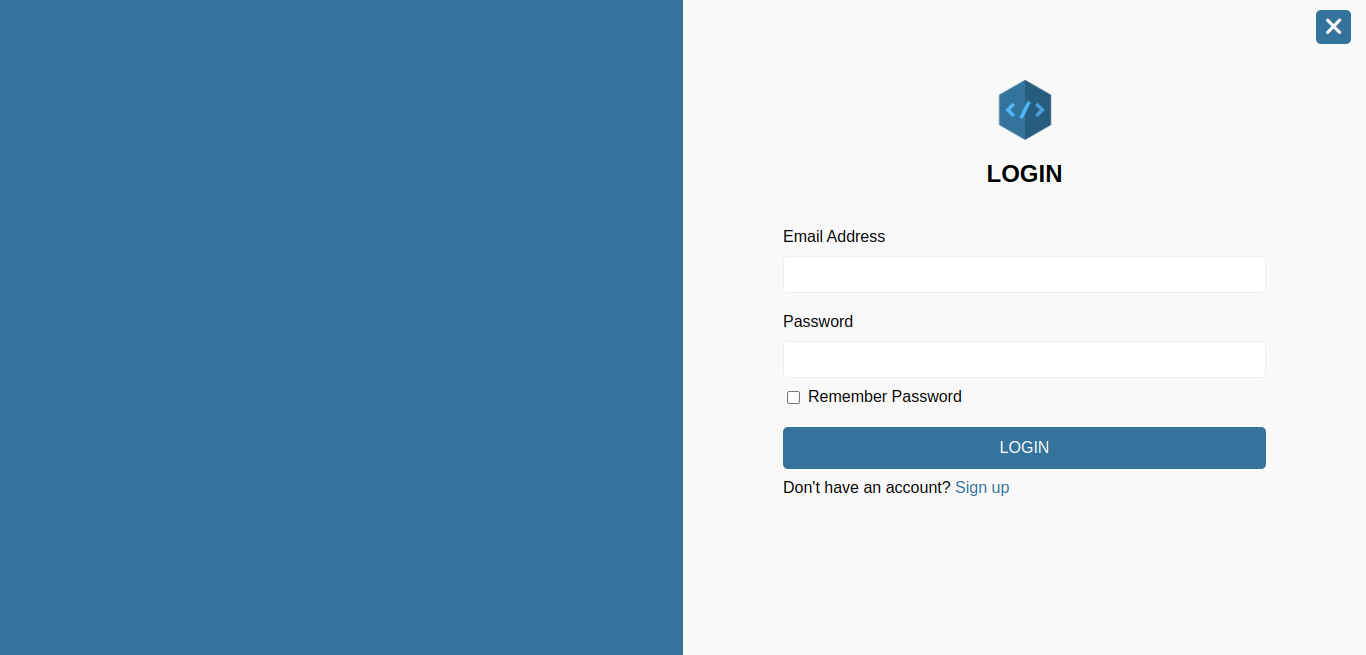
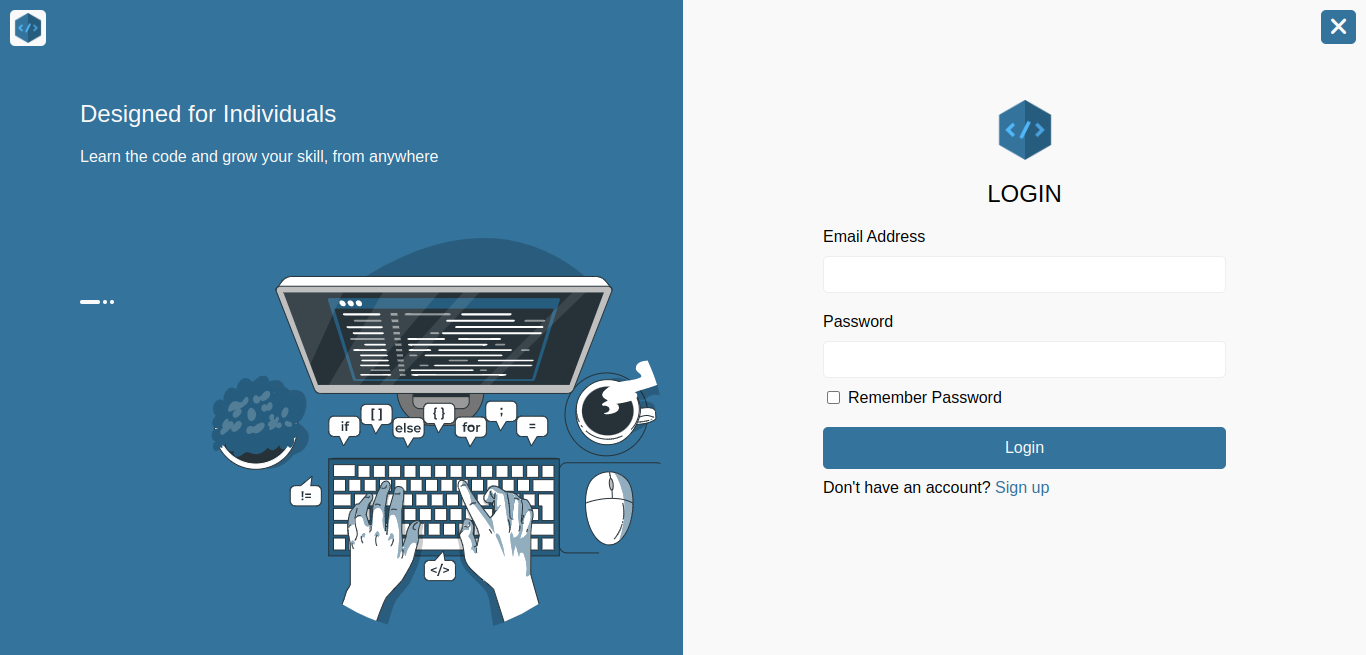
add contents in section left

diff --git a/public/css/login/login.style.css b/public/css/login/login.style.css
@@ -14,18 +14,90 @@
     align-self: stretch;
 }
 
+/* SECTION LEFT */
+
 #section__left {
+    position: relative;
+    color: var(--light);
     background-color: var(--secondary);
+    background-image: url(/assets/img/code-typing-animate.svg);
+    background-repeat: no-repeat;
+    background-size: 500px;
+    background-position: 100% 120%;
 }
 
+#section__left .content__logo {
+    position: absolute;
+    top: 10px;
+    left: 10px;
+    display: flex;
+    justify-content: center;
+    align-items: center;
+    padding: 3px;
+    background-color: var(--light);
+    border-radius: 5px;
+}
+
+#section__left h1, #section__left p {
+    font-weight: normal;
+    margin: 0;
+    padding: 0;
+}
+
+#section__left .content__text {
+    position: relative;
+    margin-top: 100px;
+    margin-left: 80px;
+    width: 360px;
+    display: flex;
+    flex-direction: column;
+    align-items: flex-start;
+    gap: 20px;
+}
+
+#section__left .content__pagination {
+    position: absolute;
+    top: 200px;
+    left: 0;
+    display: flex;
+    flex-direction: row;
+    align-items: center;
+    gap: 3px;
+}
+
+#section__left .page__item {
+    cursor: pointer;
+    display: block;
+    content: '';
+    width: 4px;
+    height: 4px;
+    background-color: var(--light);
+    border-radius: 50%;
+}
+
+#section__left .page__item.active {
+    width: 20px;
+    border-radius: 2px;
+}
+
+/* #section__left .content__image {
+    position: absolute;
+    right: 0;
+    bottom: -10px;
+    width: 500px;
+} */
+
+/* SECTION RIGHT */
+
 #section__right {
+    position: relative;
     background-color: var(--light);
 }
 
 #section__right .close {
     position: absolute;
     top: 10px;
-    right: 15px;
+    right: 10px;
 }
 
 #section__right .close__icon {
@@ -41,13 +113,13 @@
     border-radius: 5px;
 }
 
-#section__right h1 p {
-    padding: 0;
+#section__right h1, #section__right p {
     margin: 0;
+    padding: 0;
 }
 
 #section__right .content {
-    margin: 80px 100px auto 100px;
+    margin: 100px 140px auto 140px;
     display: flex;
     flex-direction: column;
     align-items: stretch;
@@ -58,9 +130,11 @@
     display: flex;
     flex-direction: column;
     align-items: center;
+    gap: 20px;
 }
 
 #section__right .header__title {
+    font-weight: normal;
     text-transform: uppercase;
 }
 
@@ -90,6 +164,5 @@
 }
 
 #section__right .form__submit {
-    text-transform: uppercase;
     font-size: medium;
 }

diff --git a/resources/views/login/login.blade.php b/resources/views/login/login.blade.php
@@ -24,7 +24,24 @@
 </head>
 <body>
     <div id="section">
-        <section id="section__left" class="section"></section>
+        <section id="section__left" class="section">
+            <div class="content">
+                <div class="content__logo">
+                    <img src="{{ asset('assets/img/logo.png') }}" alt="Coding" width="30px">
+                </div>
+                <div class="content__text">
+                    <h1 class="content__label">Designed for Individuals</h1>
+                    <p class="content__description">Learn the code and grow your skill, from anywhere</p>
+                    <div class="content__pagination">
+                        <span class="page__item active"></span>
+                        <span class="page__item"></span>
+                        <span class="page__item"></span>
+                    </div>
+                </div>
+                {{-- <img class="content__image" src="{{ asset('assets/img/code-typing-animate.svg') }}"> --}}
+            </div>
+        </section>
+
         <section id="section__right" class="section">
             <div class="close">
                 <a href="/" class="close__icon"><i class="fa-solid fa-xmark"></i></a>
